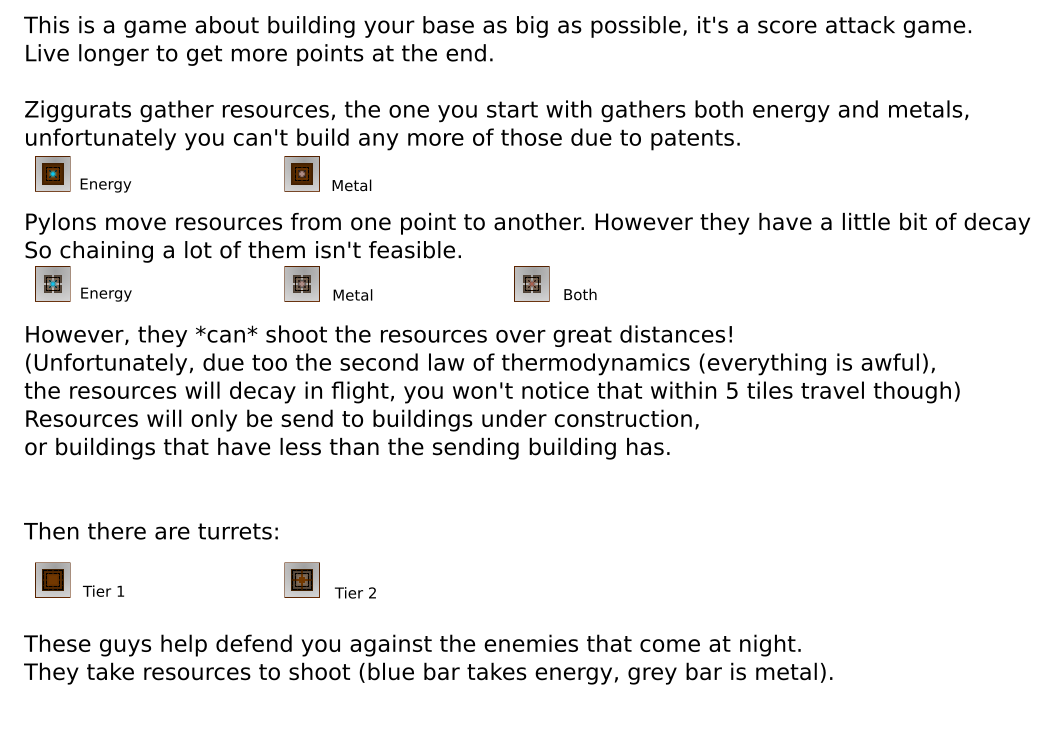
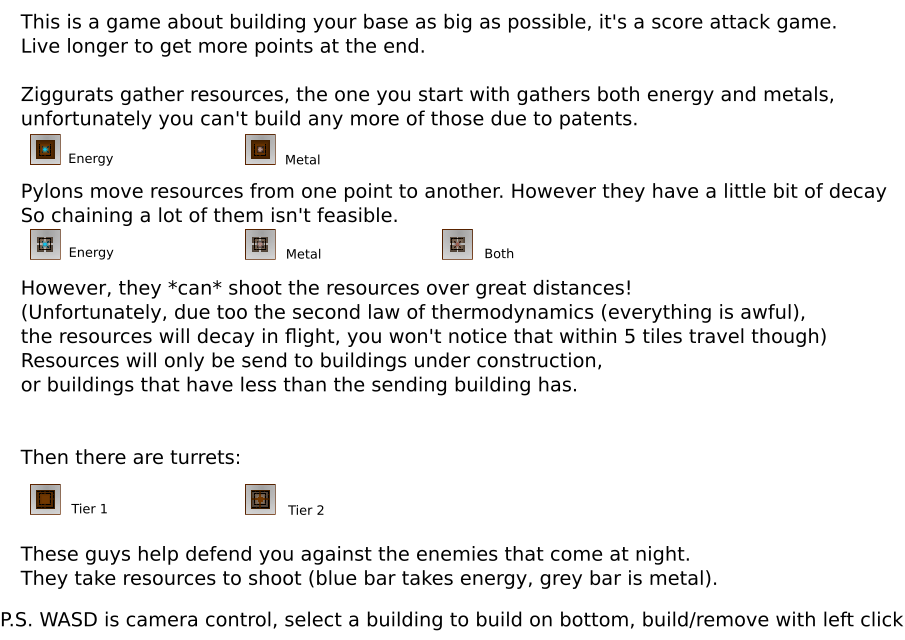
Added tutorial and readme states.

diff --git a/mainmenu.py b/mainmenu.py
@@ -11,26 +11,20 @@ from widgets import *
 
 from gamescene import GameScene
 
-class MainMenu( Scene ):
+class GuiScene( Scene ):
     def __init__( self ):
         super().__init__()
 
         self.widgets = []
-        def getButtonRect( _ ):
-            width = 200
-            height = 40
 
-            return pygame.Rect( ( game.SCREEN_SIZE[0] - width ) / 2, 60 * len( self.widgets ) + 20, width, height )
+    def init( self ):
+        return True
 
-        def startCallback( _ ):
-            #TODO: Add a loadingscreen here
-            self.nextScene = GameScene()
+    def getButtonRect( self, _ ):
+        width = 300
+        height = 40
 
-        self.widgets.append( TextButton( None, 'Start', layoutFunc = getButtonRect, callback=startCallback ) )
-
-        def quitCallback( _ ):
-            game.gameIsRunning = False
-        self.widgets.append( TextButton( None, 'Quit', layoutFunc = getButtonRect, callback=quitCallback ) )
+        return pygame.Rect( ( game.SCREEN_SIZE[0] - width ) / 2, 60 * len( self.widgets ) + 20, width, height )
 
     def doInput( self, frameTime ):
         for event in base.frame.receiveInput():
@@ -50,3 +44,39 @@ class MainMenu( Scene ):
 
     def doTick( self ):
         pass
+
+    def backCb( self, _ ):
+        self.nextScene = self.parent
+
+
+class IconMenu( GuiScene ):
+    def __init__( self, icon ):
+        super().__init__()
+
+        self.widgets.append( Icon( pygame.Rect( 0,0,game.SCREEN_SIZE[0], game.SCREEN_SIZE[1] ), game.assets[icon] ) )
+        self.widgets.append( TextButton( pygame.Rect( game.SCREEN_SIZE[0]-40, 0,40,40 ), 'Back', callback=self.backCb, font='gameover2' ) )
+
+
+class MainMenu( GuiScene ):
+    def __init__( self ):
+        super().__init__()
+
+        def startCallback( _ ):
+            #TODO: Add a loadingscreen here
+            self.nextScene = GameScene()
+
+        self.widgets.append( TextButton( None, 'Start', layoutFunc = self.getButtonRect, callback=startCallback ) )
+
+        def help1( _ ):
+            self.nextScene = IconMenu( 'img/readme.png' )
+        self.widgets.append( TextButton( None, 'Read me', layoutFunc = self.getButtonRect, callback=help1 ) )
+
+        def help2( _ ):
+            print( 'help2!' )
+            self.nextScene = IconMenu( 'img/tutorial.png' )
+        self.widgets.append( TextButton( None, 'Tutorial', layoutFunc = self.getButtonRect, callback=help2 ) )
+
+        def quitCallback( _ ):
+            game.gameIsRunning = False
+        self.widgets.append( TextButton( None, 'Quit', layoutFunc = self.getButtonRect, callback=quitCallback ) )
+

diff --git a/__init__.py b/__init__.py
@@ -19,7 +19,7 @@ game.scene = MainMenu()
 
 game.fonts['menu'] = pygame.font.Font( 'fonts/kenvector_future_thin.ttf', 48 )
 game.fonts['resources'] = pygame.font.Font( 'fonts/kenvector_future_thin.ttf', 16 )
-game.fonts['description'] = pygame.font.Font( 'fonts/kenvector_future_thin.ttf', 12 )
+game.fonts['description'] = pygame.font.Font( 'fonts/kenvector_future_thin.ttf', 8 )
 game.fonts['gameover1'] = pygame.font.Font( 'fonts/kenvector_future_thin.ttf', 32 )
 game.fonts['gameover2'] = pygame.font.Font( 'fonts/kenvector_future_thin.ttf', 12 )
 game.fonts['gameover3'] = pygame.font.Font( 'fonts/kenvector_future_thin.ttf', 8 )

diff --git a/scene.py b/scene.py
@@ -10,3 +10,4 @@ class Scene:
             if self.nextScene.init():
                 self.nextScene.parent = self
                 game.scene = self.nextScene
+                self.nextScene = None

diff --git a/game.py b/game.py
@@ -1,4 +1,4 @@
-SCREEN_SIZE = ( 1280, 768 )
+SCREEN_SIZE = ( 1024, 640 )
 
 gameIsRunning = True
 
